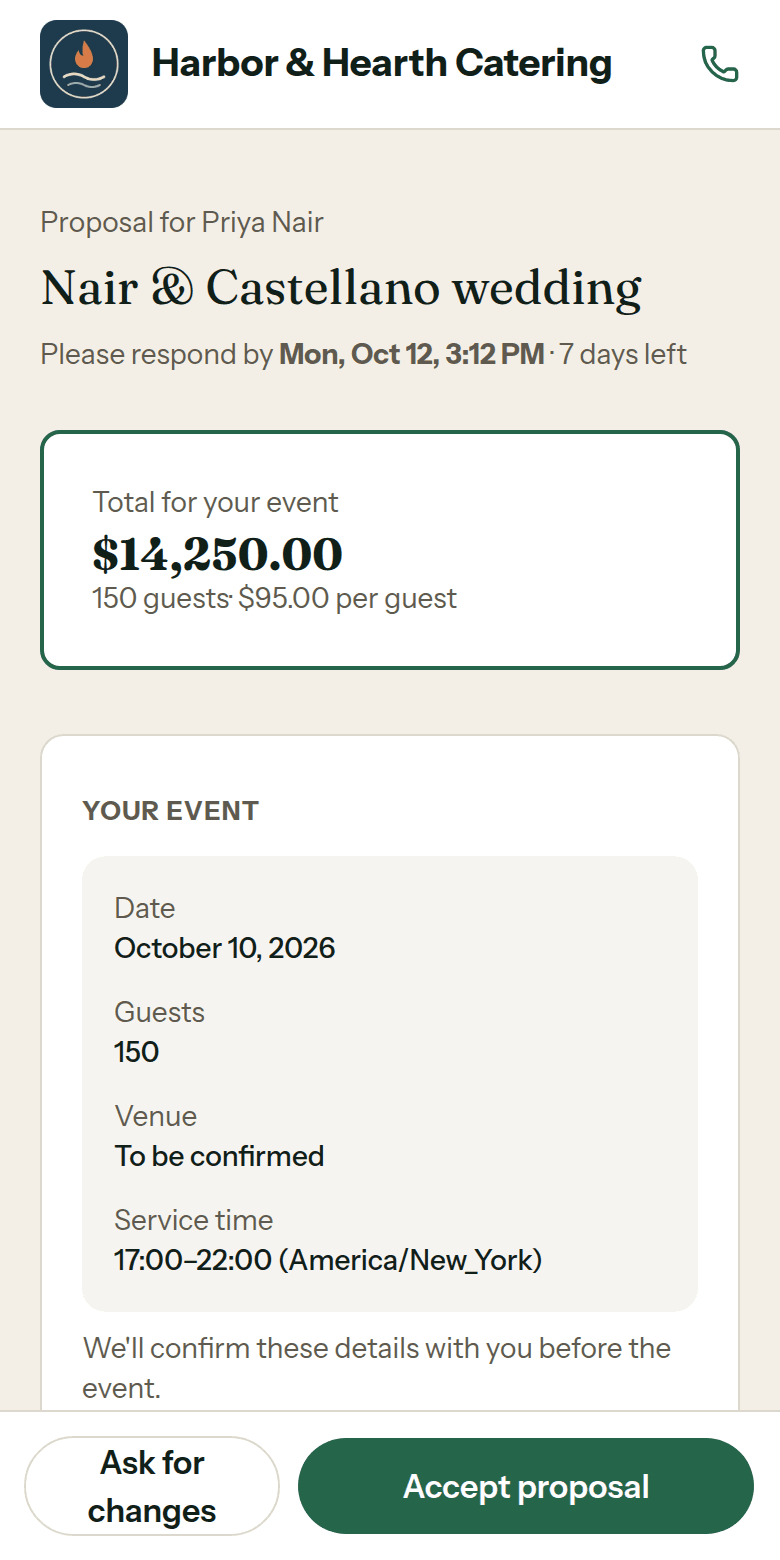
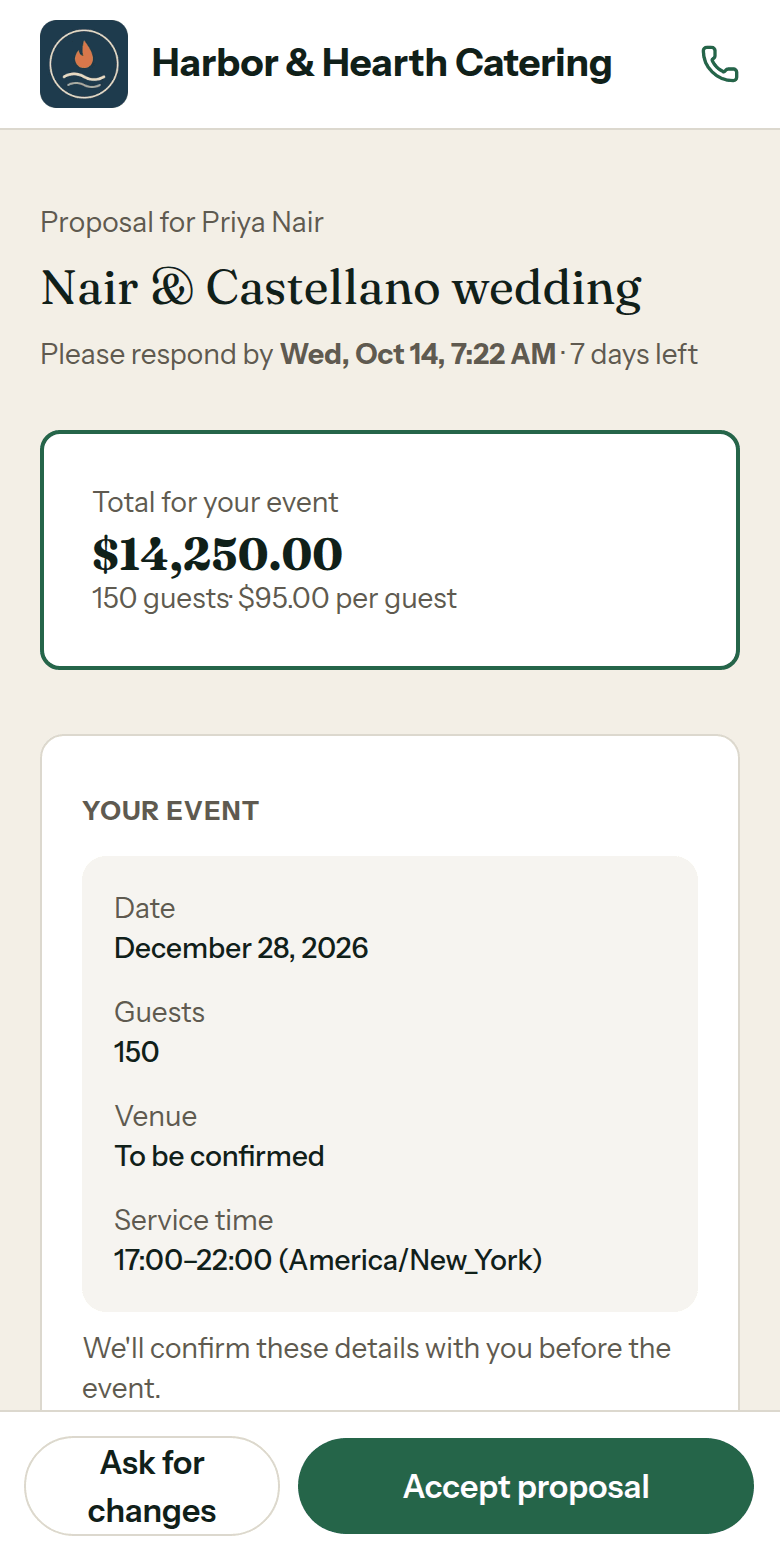
fix(home): one wedding date: re-shoot the proposal on Dec 28
The proposal frame came from a local event on Sat Oct 10 with a respond-by of
Oct 12, two days after the wedding, while the payment and Sage frames (test)
show the same wedding on Dec 28. A fresh local event dated 2026-12-28 is
offered and captured before acceptance (respond by Oct 14), with the sample
logo, as one whole frame. The alt names the date; the manifest records it.

Changed region(s): [[0.3385, 0.2154, 0.8923, 0.2462], [0.1538, 0.5846, 0.4615, 0.6154]]

diff --git a/src/lib/home.ts b/src/lib/home.ts
@@ -83,7 +83,7 @@ export const eventStages = [
 		body: 'The client opens the proposal with no login, sees the total for her event, and taps Accept proposal or Ask for changes.',
 		shot: shot(
 			'proposal-mobile',
-			'Client proposal on a phone: Nair & Castellano wedding, $14,250.00 for 150 guests at $95.00 per guest, with Ask for changes and Accept proposal.',
+			'Client proposal on a phone from Harbor & Hearth Catering: Nair & Castellano wedding on December 28, 2026, $14,250.00 for 150 guests at $95.00 per guest, with Ask for changes and Accept proposal.',
 			[780, 1560],
 			true
 		)

diff --git a/docs/stories/homepage-redesign-2026-10.story.md b/docs/stories/homepage-redesign-2026-10.story.md
@@ -118,3 +118,16 @@ Priya's yes comes in, then the deposit.
   wedding; the same menu, quantities and prices locked). Step 10's hand-offs
   live on the page itself.
 - "How it fits together" (beat 3) is folded into the rail's lede.
+
+### Revision 2026-10-07: designer and chef review
+- **Final Image, re-aimed:** the close's heading was "Bring one real invoice.
+  See it in 15 minutes.", which sold the demo at the moment the reader should
+  meet the trial. It is now "Cost your first dish before your next quote.": it
+  echoes the hero's theme (know the number before you cook) and hands off to the
+  setup line (about fifteen minutes, RC-10) and the plan card's primary. The
+  quiet links follow the card, so a phone reads the trial first.
+- **One numbering:** only the rail's five steps are numbered. The kitchen rows
+  lost their 02 to 05, which read as a second sequence.
+- **One wedding date:** the chef caught the proposal frame (respond by Oct 12
+  for an Oct 10 wedding) disagreeing with the payment and Sage frames (Dec 28).
+  The proposal is re-shot on a Dec 28 wedding (see the manifest).
